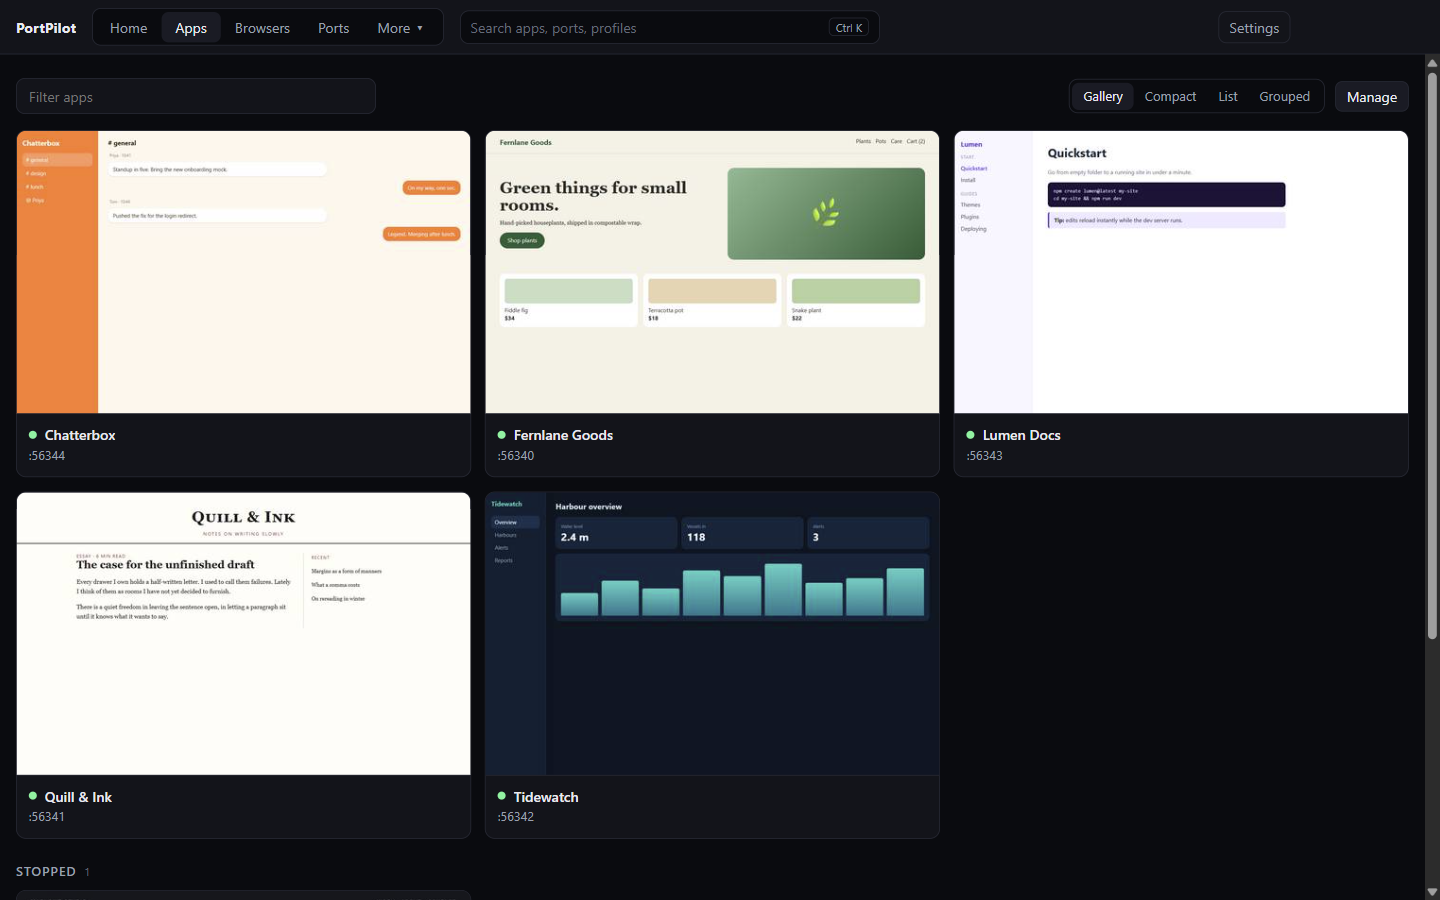
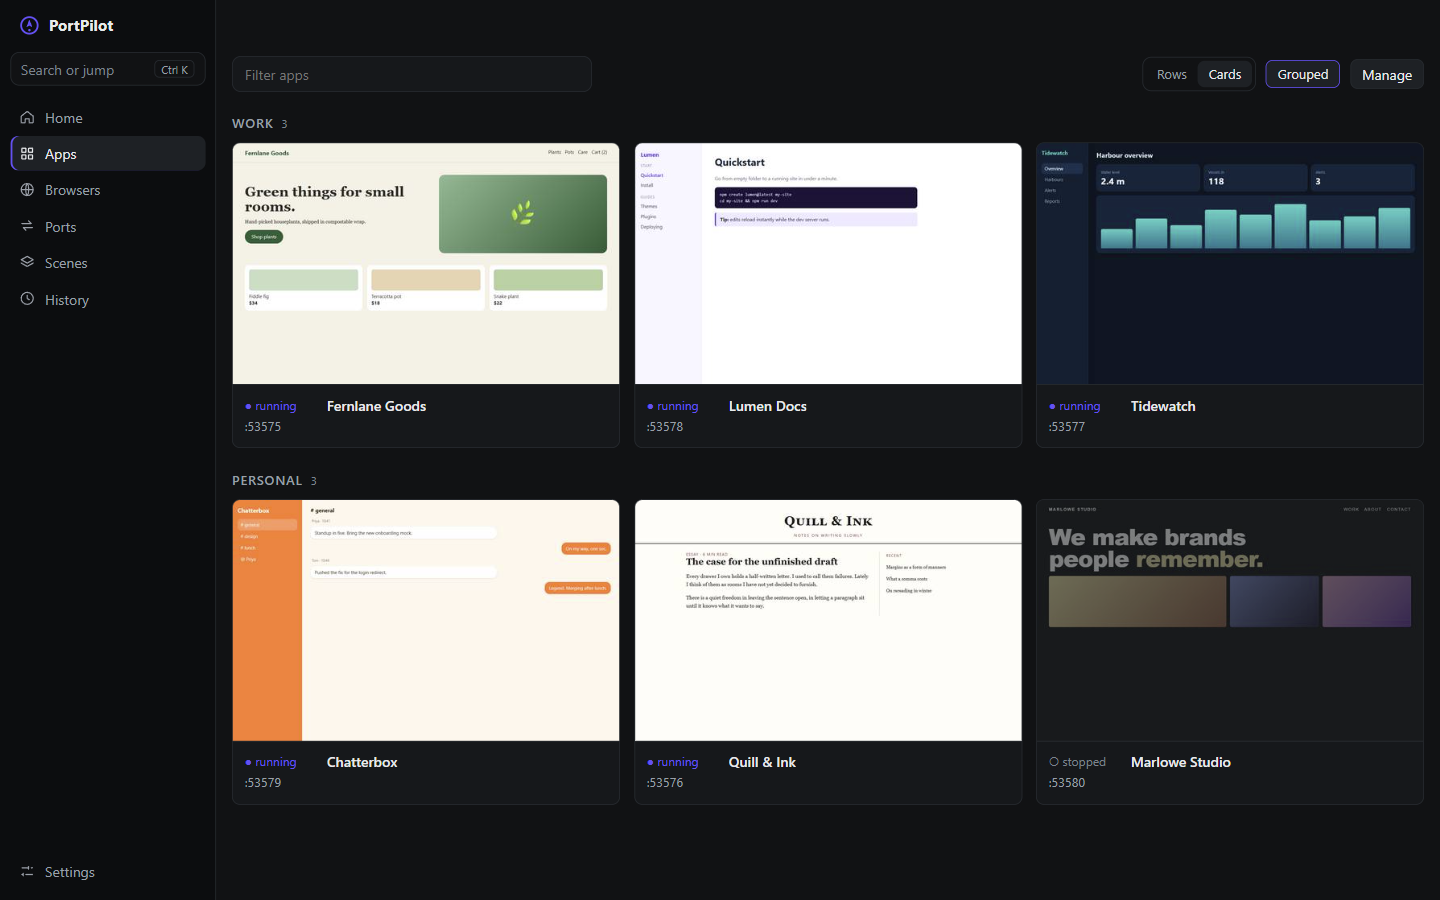
docs: README, CHANGELOG and screenshots match the final Home, Rows and Cards, and no classic view

diff --git a/docs/demo/fictional/shots.js b/docs/demo/fictional/shots.js
@@ -27,7 +27,6 @@ const world = h.makeWorld('pp-fiction-');
 
 async function main() {
   if (!fs.existsSync(path.join(root, 'src', 'ui-dist', 'index.html'))) throw new Error('src/ui-dist is missing; run "npm run build:ui" first');
-  process.env.PORTPILOT_NEW_UI = '1';
   const ports = await h.freePorts(SITES.length + PROFILES.length);
   const apps = SITES.map((s, i) => ({
     id: `app_${s.site}`, name: s.name, group: s.group, command: `node ../../serve.js --site ${s.site} --port ${ports[i]}`,
@@ -75,6 +74,7 @@ async function main() {
     const runningIds = () => win.evaluate(async () => (await window.portpilot.process.list()).apps.filter((a) => a.running).map((a) => a.id));
     check('the finished run stays stopped', !(await runningIds()).includes('app_portfolio'), (await runningIds()).join(','));
     await win.click('role=tab[name="Apps"]');
+    await win.click('role=button[name="Cards"]');
     await until(() => win.evaluate((n) => document.querySelectorAll('.card.running .shot img').length >= n, SITES.length - 1), 120000, 'live thumbnails');
     check('every running app shows a real capture', true);
     await h.sleep(1500);
@@ -82,7 +82,7 @@ async function main() {
     await shot('apps', 'light');
 
     await win.click('role=tab[name="Home"]');
-    await until(() => win.evaluate(() => document.querySelectorAll('.h-recent .th').length >= 3), 30000, 'home thumbnails');
+    await until(() => win.evaluate(() => document.querySelectorAll('.run-row .row-th').length >= 5), 30000, 'home thumbnails');
     await h.sleep(1000);
     await shot('home');
     await shot('home', 'light');
@@ -97,8 +97,7 @@ async function main() {
     check('each profile card shows its picture', true);
     await shot('browsers');
 
-    await win.click('role=button[name="More ▾"]');
-    await win.click('role=menuitem[name="History"]');
+    await win.click('role=tab[name="History"]');
     await h.sleep(1500);
     await shot('history');
     await win.keyboard.press('Escape');

diff --git a/README.md b/README.md
@@ -38,7 +38,7 @@ The first screen shows what you were just doing: one row per running app with Op
 
 ### Apps
 
-Every app as a card with a live preview of its page, running first and stopped ones below. Switch between Gallery, Compact, List and Grouped. An app another program is holding the port of is marked **Port held**.
+Every app as a card with a live preview of its page, running first and stopped ones below. Switch between Rows and Cards, and between Grouped and Flat. An app another program is holding the port of is marked **Port held**.
 
 ![Apps: running sites with live page previews](docs/screenshots/ui/apps.png)
 
@@ -170,19 +170,6 @@ One config file and one run record sit behind every surface, so an app you add i
 - Share an app's LAN URL to your phone by QR code
 - Crash toast with an **Ask Claude** button when the session that started the app is still open
 
-<details>
-<summary><b>The classic view</b></summary>
-
-The previous interface is still in the app (Settings > Switch to classic view) and is what the web portal shows. It adds row state and who started each app, a conflict strip with Use free port and Kill & start, worktrees nested under their project (add a repo's worktrees in one go, stale ones flagged), Docker status badges, health checks, Start all / Stop all per group, and six themes (Light, TokyoNight, Nord, Dracula, Glass).
-
-![Classic desktop view: two port conflicts and a crashed app on top, live apps with page previews below](docs/demo/screenshots/desktop-apps-1440.png)
-
-![Row state cell showing running branches and who started them](docs/screenshots/crop-row-state.png)
-
-![Conflict strip on a blocked app row](docs/screenshots/crop-conflict.png)
-
-</details>
-
 ## MCP tools
 
 <details id="mcp-tools">
@@ -262,7 +249,7 @@ npm start
 
 **Manual entry.** Click Add app and fill in Name, Command (for example `npm run dev`), Working Directory, Preferred Port, and an optional Fallback Range (for example `3001-3010`).
 
-**Port conflicts.** When another process holds an app's port, the new view flags it in a banner whose Fix button opens Ports, where **Free :port** stops the holder. The classic view shows a conflict strip on the row with Use free port, Kill & start and Show process.
+**Port conflicts.** When another process holds an app's port, a banner flags it and its Fix button opens Ports, where **Free :port** stops the holder.
 
 </details>
 
@@ -290,7 +277,6 @@ A pulsing yellow 🐳 means Docker Desktop is not running (click to start it); g
 | `Ctrl+K` | Command palette (search apps, ports and profiles, then run an action) |
 | `Escape` | Close the palette, a drawer or a menu |
 
-The classic view adds `Ctrl+R` (scan), `Ctrl+N` (new app), `Ctrl+F` (search) and `Ctrl+G` (new group).
 
 </details>
 
@@ -367,7 +353,7 @@ The smoke suite covers window launch, port scanning, test-server detection, port
 
 Launching from VS Code or Claude Code: `launch.js` clears `ELECTRON_RUN_AS_NODE` for you.
 
-**Stack:** Electron, Node.js, a React and Vite interface (`ui/`) beside the vanilla JS classic view, CSS variables for themes, Playwright for tests, `netstat` (Windows) / `lsof` (macOS, Linux) for port scanning.
+**Stack:** Electron, Node.js, a React and Vite interface (`ui/`), CSS variables for themes, Playwright for tests, `netstat` (Windows) / `lsof` (macOS, Linux) for port scanning.
 
 </details>
 

diff --git a/CHANGELOG.md b/CHANGELOG.md
@@ -10,9 +10,9 @@ and this project adheres to [Semantic Versioning](https://semver.org/spec/v2.0.0
 ## [5.0.0] - 2026-10-25
 
 ### Added
-- **A new default interface.** PortPilot opens on a redesigned view built with React: a top bar with Home, Apps, Browsers, Ports and a More menu (Library views, Scenes, History), and Settings beside it. The classic view is one click away under Settings > Switch to classic view, and the web portal still shows it.
-- **Home.** One row per running app with Open, Stop and Details (the app you used last with Start when nothing runs), your browser profiles as pictures, and Recently used with a Start button on anything stopped or crashed. Running apps that have no picture get one captured from their page. A first run says what to do instead of showing empty cards.
-- **Apps.** Every app as a card with a live preview of its page, in Gallery, Compact, List or Grouped layout, with a fixed number of cards across for each window width. An app whose port another program holds is marked Port held. **Manage** switches the same screen to the editing table (Star, Start or Stop, Details, Edit, Groups, Add app, auto-detect).
+- **A new default interface.** PortPilot opens on a redesigned view built with React: a top bar with Home, Apps, Browsers, Ports and a More menu (Library views, Scenes, History), and Settings beside it. The older view is gone from the desktop app; the web portal still serves it.
+- **Home.** Running apps as four-across preview tiles: click a tile to open the app, the three dots open its Details, a stop button sits bottom-right, and the name, port and start time show over a dimmed preview that brightens on hover (the app you used last, with a Start tile, when nothing runs), your browser profiles as pictures, and Recently used with a Start button on anything stopped or crashed. Running apps that have no picture get one captured from their page. A first run says what to do instead of showing empty cards.
+- **Apps.** Every app as a card with a live preview of its page, as Rows or Cards, grouped or flat, with a fixed number of cards across for each window width. An app whose port another program holds is marked Port held. **Manage** switches the same screen to the editing table (Star, Start or Stop, Details, Edit, Groups, Add app, auto-detect).
 - **Browsers screen.** Named browser profiles as cards with the site's own picture, port, mode and purpose; Start, Stop, Edit and history from one place. **Set up sign-ins** opens Brave's Sync or Import passwords page in the profile; PortPilot never reads saved passwords.
 - **VS Code extension 4.0.6 (unreleased).** Browsers sits second in the sidebar, and a Browser Previews view is opt-in per profile.
 - **Scenes.** Save a set of apps and browser profiles and start them together. Stop only stops what the scene started. Save what is running turns the current state into a scene.
